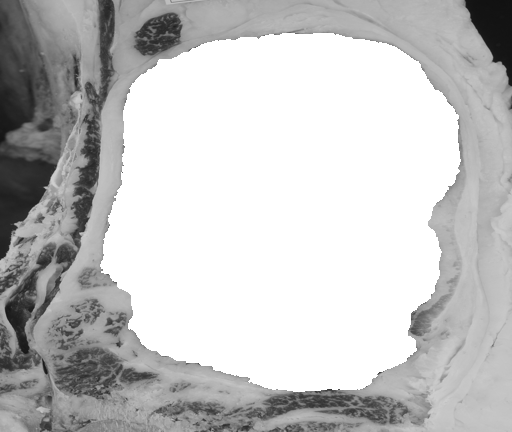
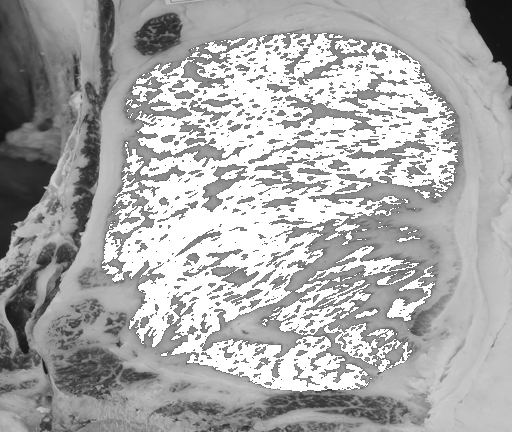
9week done

Changed region(s): [[0.1875, 0.0602, 0.9062, 0.9028], [0.4688, 0.5116, 0.5, 0.5417]]

diff --git a/9week/[IP]202102695_장진영.py b/9week/[IP]202102695_장진영.py
@@ -23,15 +23,13 @@ def get_threshold_by_within_variance(intensity, p):
     q1 = np.zeros((256,))
     q2 = np.zeros((256,))
     for k in range(0, 256):
-        for j in range(0, k + 1):
-            q1[k] += p[j]
-        for i in range(k + 1, 256):
-            q2[k] += p[i]
+        for i in range(0, k + 1):
+            q1[k] += p[i]
+        q2[k] = 1 - q1[k]
 
     # k 까지의 평균
     m1 = np.zeros((256,))
     m2 = np.zeros((256,))
-
     for k in range(0, 256):
         for i in range(0, k + 1):
             m1[k] += intensity[i] * p[i]
@@ -39,6 +37,7 @@ def get_threshold_by_within_variance(intensity, p):
             m1[k] = 0
         else:
             m1[k] = m1[k] / q1[k]
+
         for j in range(k + 1, 256):
             m2[k] += intensity[j] * p[j]
         if q2[k] == 0:
@@ -52,24 +51,23 @@ def get_threshold_by_within_variance(intensity, p):
 
     for k in range(0, 256):
         for i in range(0, k + 1):
-            sigma1[k] += intensity[i] ** 2 * p[i] - m1[k] ** 2
+            sigma1[k] += ((intensity[i] - m1[k]) ** 2) * p[i]
         if q1[k] == 0:
             sigma1[k] = 0
         else:
             sigma1[k] = sigma1[k] / q1[k]
         for j in range(k + 1, 256):
-            sigma2[k] += intensity[i] ** 2 * p[i] - m2[k] ** 2
+            sigma2[k] += ((intensity[j] - m2[k]) ** 2) * p[j]
         if q2[k] == 0:
             sigma2[k] = 0
         else:
             sigma2[k] = sigma2[k] / q2[k]
 
-
     sigma = np.zeros((256,))
     for k in range(0, 256):
         sigma[k] = q1[k] * sigma1[k] + q2[k] * sigma2[k]
 
-    k = np.argmin(sigma).astype(np.int32)
+    k = np.argmin(sigma)
 
     return k
 
@@ -219,8 +217,6 @@ def otsu_method(src, mask):
 
     # k1과 k2가 같아야 한다.
     # 같지 않으면 실행 종료
-    print("k1 : ", k1)
-    print("k2 : ", k2)
     assert k1 == k2
 
     dst1 = threshold(src, k1, mask)
@@ -235,8 +231,8 @@ def otsu_method(src, mask):
     plt.plot(intensity, hist)
     # plt.plot(???, ???, color='red', marker='o', markersize=6)
     # plt.plot(???, ???, color='red', marker='o', markersize=6)
-    plt.plot(np.argmax(hist[:k1]), hist[np.argmax(hist[:k1])], color='red', marker='o', markersize=6)
-    plt.plot(np.argmax(hist[k1 + 1:]), hist[np.argmax(hist[k1 + 1:])], color='red', marker='o', markersize=6)
+    plt.plot(np.argmax(hist[:k1 + 1]), hist[np.argmax(hist[:k1 + 1])], color='red', marker='o', markersize=6)
+    plt.plot(k1 + np.argmax(hist[k1 + 1:]), hist[k1 + np.argmax(hist[k1 + 1:])], color='red', marker='o', markersize=6)
     plt.xlabel('Pixel value')
     plt.ylabel('Frequency')
     plt.title('Interest region histogram')
